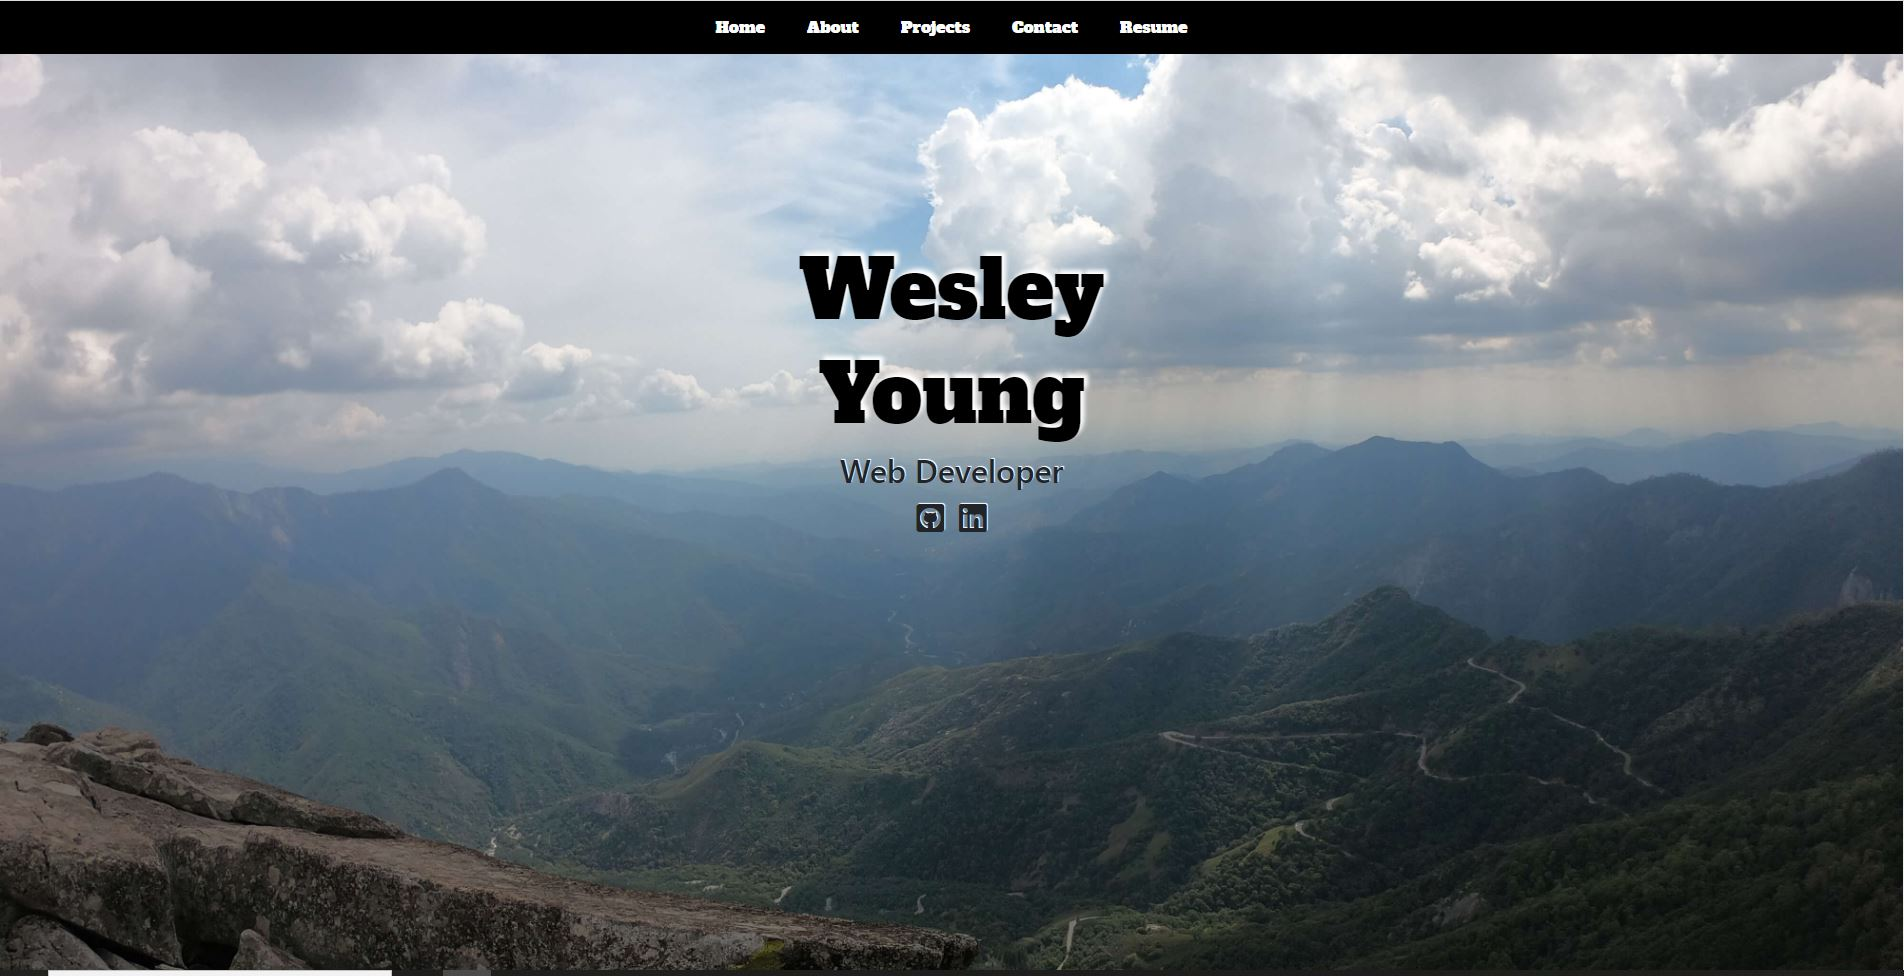
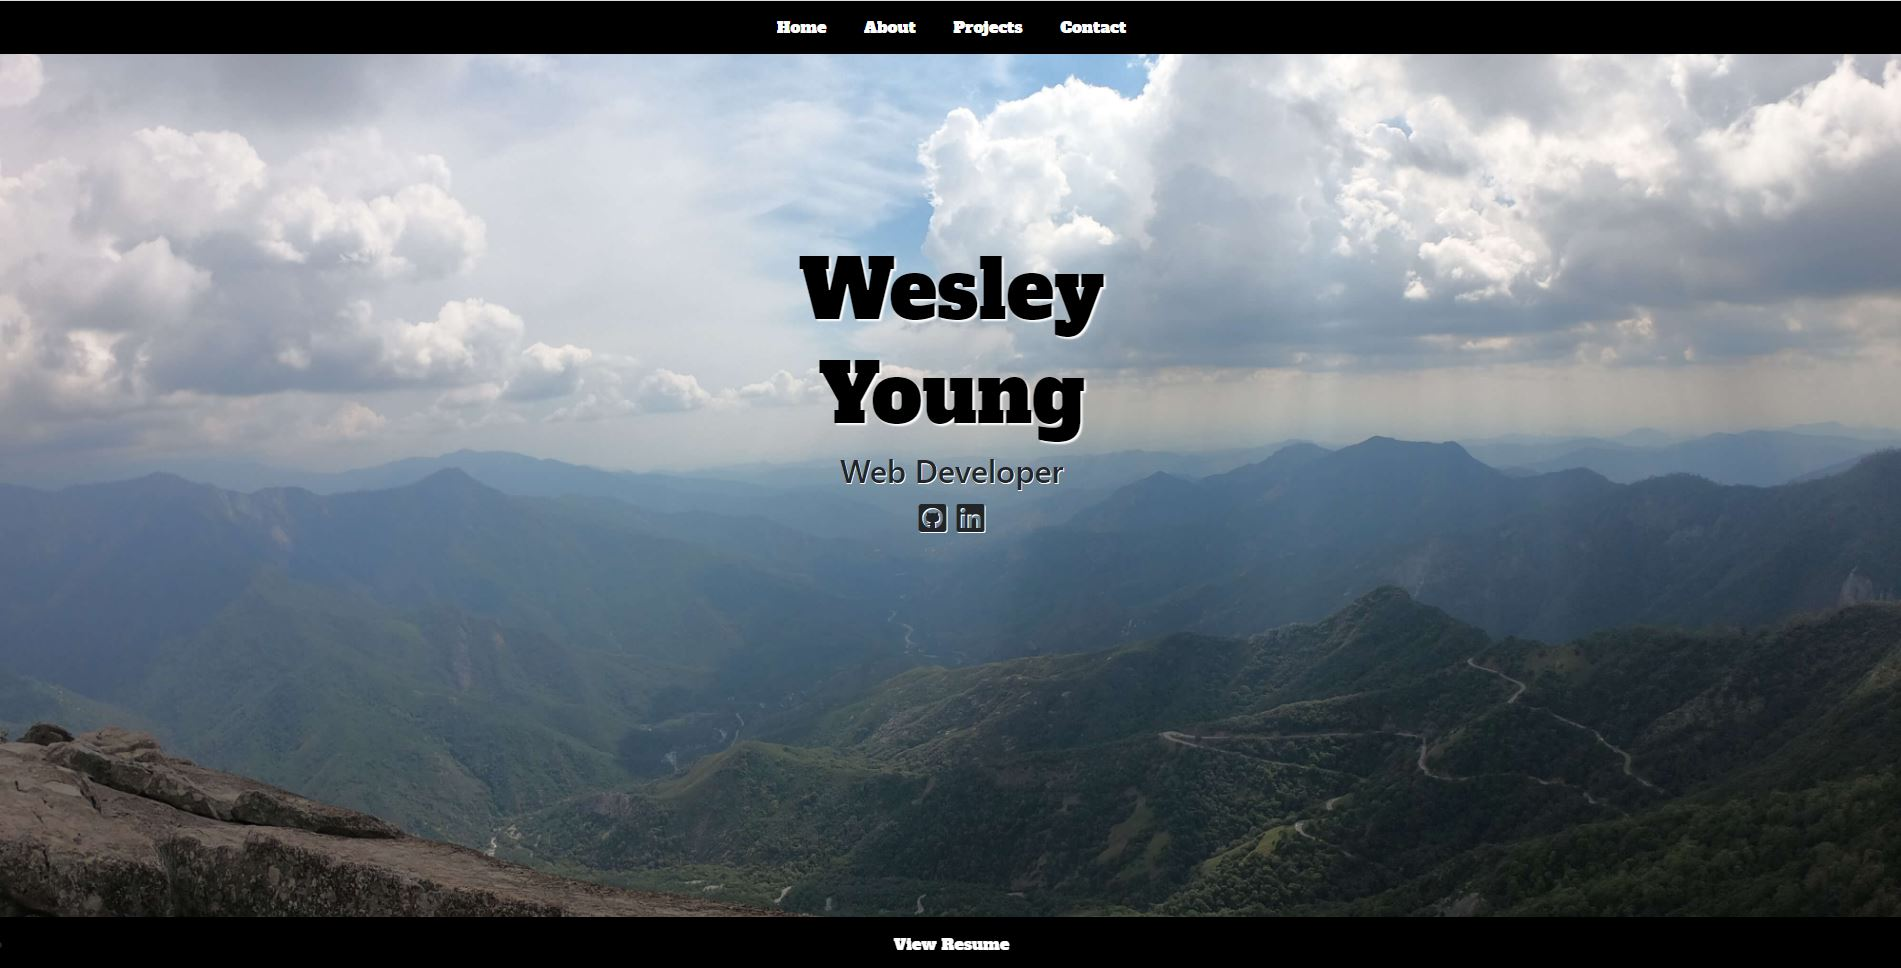
Added comments and README

diff --git a/src/components/SectionHeader/SectionHeader.js b/src/components/SectionHeader/SectionHeader.js
@@ -1,7 +1,8 @@
 import React from "react";
 import "./style.css";
 
-const ProjectsHeader = ({ children, title, id }) => {
+//Returns header for each section
+const SectionHeader = ({ children, title, id }) => {
   return (
     <section className="infoBlock" id={id}>
       <div className="internalElements">
@@ -15,4 +16,4 @@ const ProjectsHeader = ({ children, title, id }) => {
   );
 };
 
-export default ProjectsHeader;
+export default SectionHeader;

diff --git a/src/components/ProjectsSection/ProjectsSection.js b/src/components/ProjectsSection/ProjectsSection.js
@@ -1,6 +1,7 @@
 import React from "react";
 import "./style.css";
 
+//Stateless component takes in props and returns projects
 const ProjectsSection = ({ name, img, website, github }) => {
   return (
     <section className="col-md-4 child">

diff --git a/src/App.js b/src/App.js
@@ -7,6 +7,7 @@ import Projects from "./projects.json";
 import SectionHeader from "./components/SectionHeader/SectionHeader";
 import Footer from "./components/Footer/Footer";
 
+//Returns page
 function App() {
   return (
     <div>

diff --git a/src/components/Footer/Footer.js b/src/components/Footer/Footer.js
@@ -2,6 +2,7 @@ import React from "react";
 import "./style.css";
 import Resume from "../../Assets/Images/Resume.pdf";
 
+//Returns footer
 const Footer = () => {
   return (
     <ul className="footerElement">

diff --git a/src/components/NavBar/NavBar.js b/src/components/NavBar/NavBar.js
@@ -1,7 +1,7 @@
 import React from "react";
 import "./style.css";
-import Resume from "../../Assets/Images/Resume.pdf";
 
+//Returns navbar
 const NavBar = () => {
   return (
     <ul className="navElements">

diff --git a/src/components/HomeSection/HomeSection.js b/src/components/HomeSection/HomeSection.js
@@ -1,6 +1,7 @@
 import React from "react";
 import "./style.css";
 
+//Return home section with function for github and linkedin emblems
 const HomeSection = () => {
   function onClick(link) {
     let url;

diff --git a/src/index.js b/src/index.js
@@ -3,6 +3,7 @@ import ReactDOM from "react-dom";
 import App from "./App";
 import "bootstrap/dist/css/bootstrap.min.css";
 
+//Renders page in index.html
 ReactDOM.render(
   <React.StrictMode>
     <App />

diff --git a/src/components/ContactSection/ContactSection.js b/src/components/ContactSection/ContactSection.js
@@ -1,6 +1,7 @@
 import React from "react";
 import "./style.css";
 
+//Returns contact form
 const ContactSection = () => {
   return (
     <form>

diff --git a/src/components/AboutSection/AboutSection.js b/src/components/AboutSection/AboutSection.js
@@ -1,5 +1,6 @@
 import React from "react";
 
+//Returns about informations
 const AboutSection = () => {
   return (
     <p>

diff --git a/README.md b/README.md
@@ -1,1 +1,40 @@
 # React Portfolio
+
+## Description
+
+Portfolio page created using react.
+
+[![License: MIT](https://img.shields.io/badge/License-MIT-yellow.svg)](https://opensource.org/licenses/MIT)
+
+## Table of Contents
+
+- [Installation](#installation)
+
+- [Screenshot](#screenshot)
+
+- [License](#license)
+
+- [Links](#links)
+
+- [Questions](#questions)
+
+## Installation
+
+Install necessary dependencies with npm i command.
+
+## Screenshot
+
+<img src="./public/Assets/Images/Screenshot.JPG">
+
+## License
+
+Licensed under MIT license.
+
+## Links
+
+https://wyoung60.github.io/reactPortfolio </br>
+https://github.com/wyoung60/reactPortfolio
+
+## Questions
+
+Email wesley.young@du.edu with any questions.
